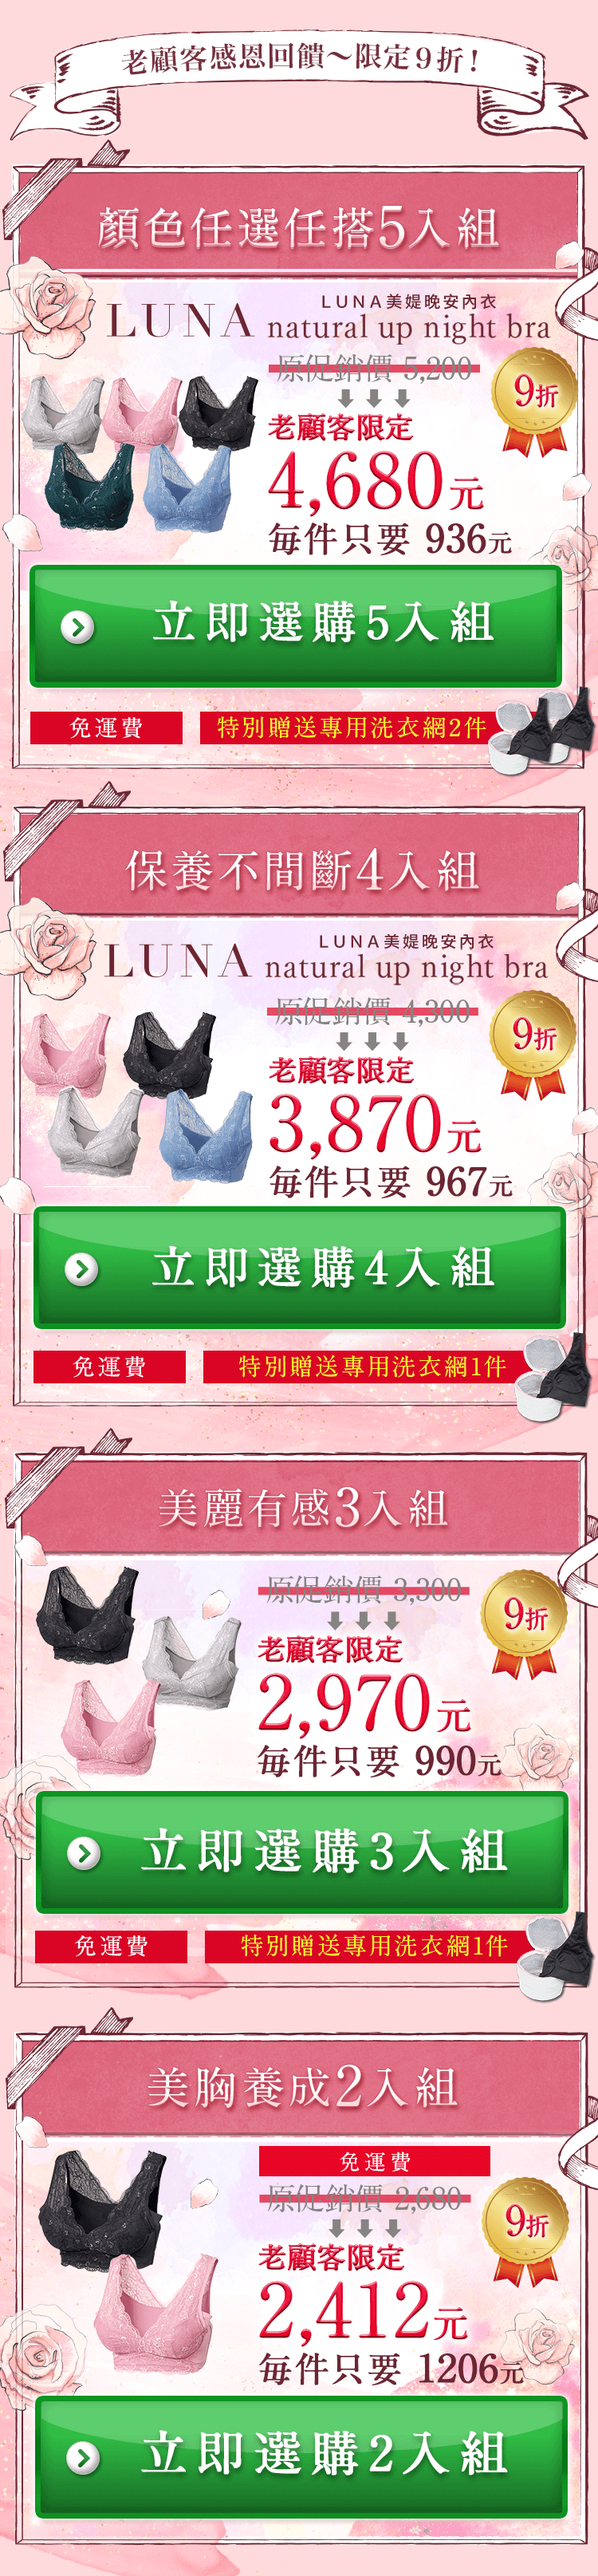
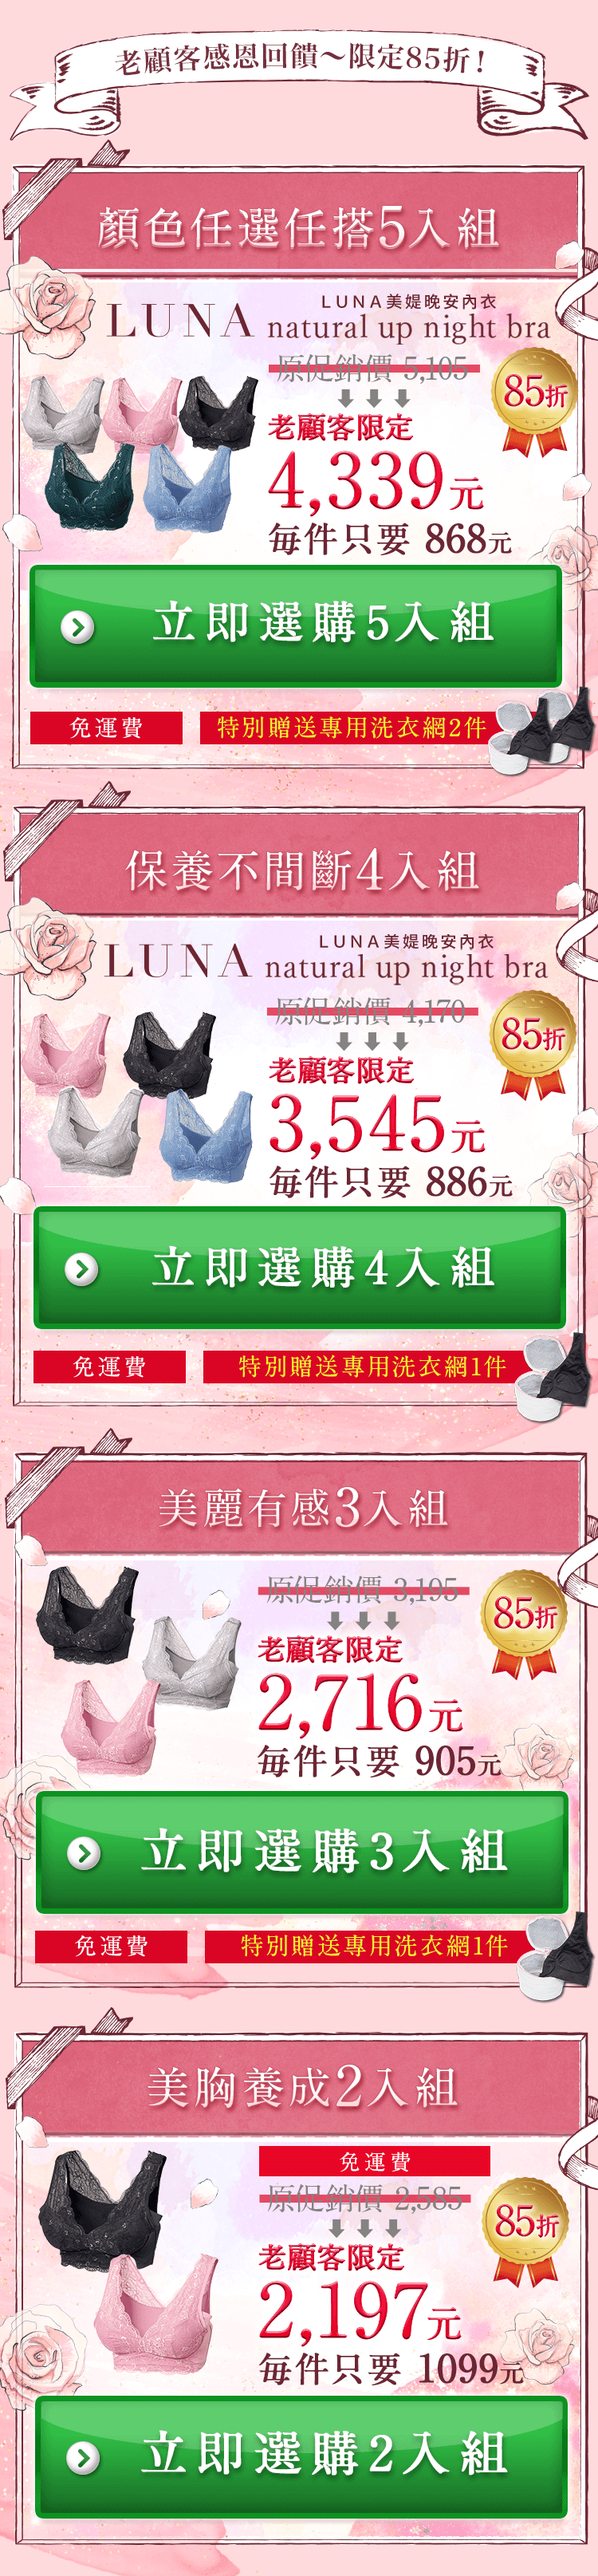
20210909_offer update

diff --git a/index.html b/index.html
@@ -93,7 +93,6 @@
                     <div class="fv">
                         <img src="images/01_banner.png" alt="">
                         <img src="images/02_fv.png" alt="">
-                        <img src="images/02_newcolor.png" alt="">
                         <img src="images/03_sales.png" alt="">
                         <img src="images/04_set05.png" alt="">
                         <img src="images/05_data.png" alt="">
@@ -167,7 +166,7 @@
 
     <!-- 編集削除禁止※ACCESS　JAVASCRIPT※編集削除禁止 -->
     <div id=acs_lp_form></div>
-    <script src=/VCommonFiles/app.min.js></script>
+    <script src="/VCommonFiles/app.min.js?ver=20210816"></script>
     <!-- 編集削除禁止※ACCESS　JAVASCRIPT※編集削除禁止 -->
 
     <!-- 網頁設計師編輯區塊 -->
